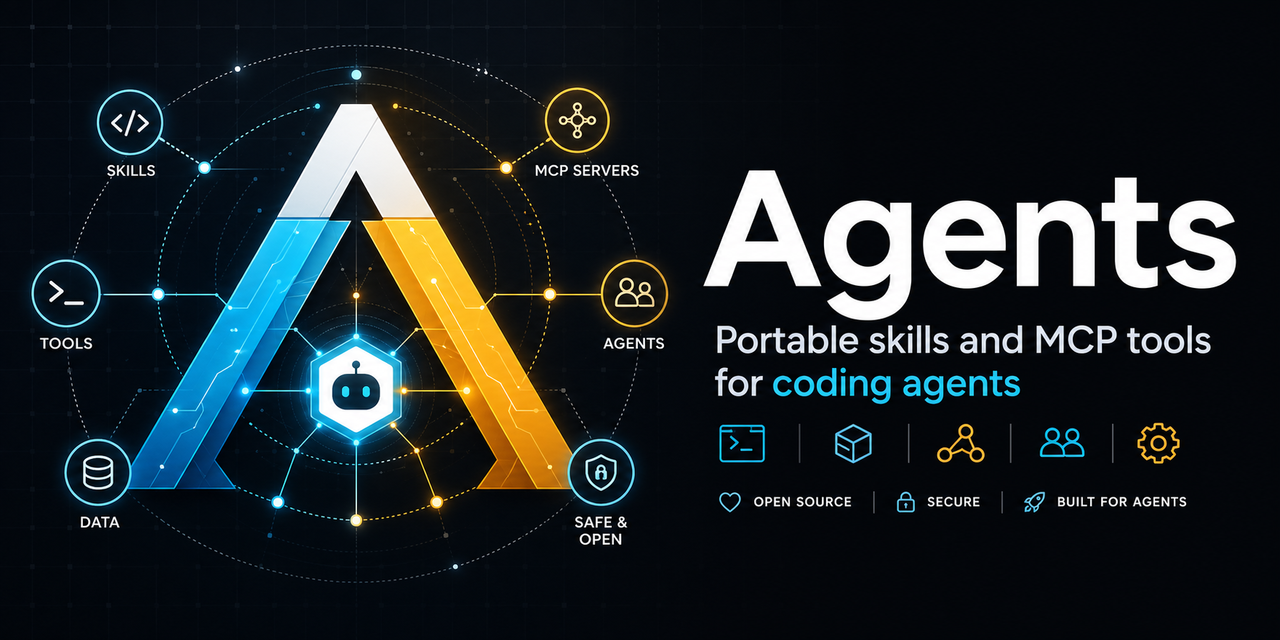
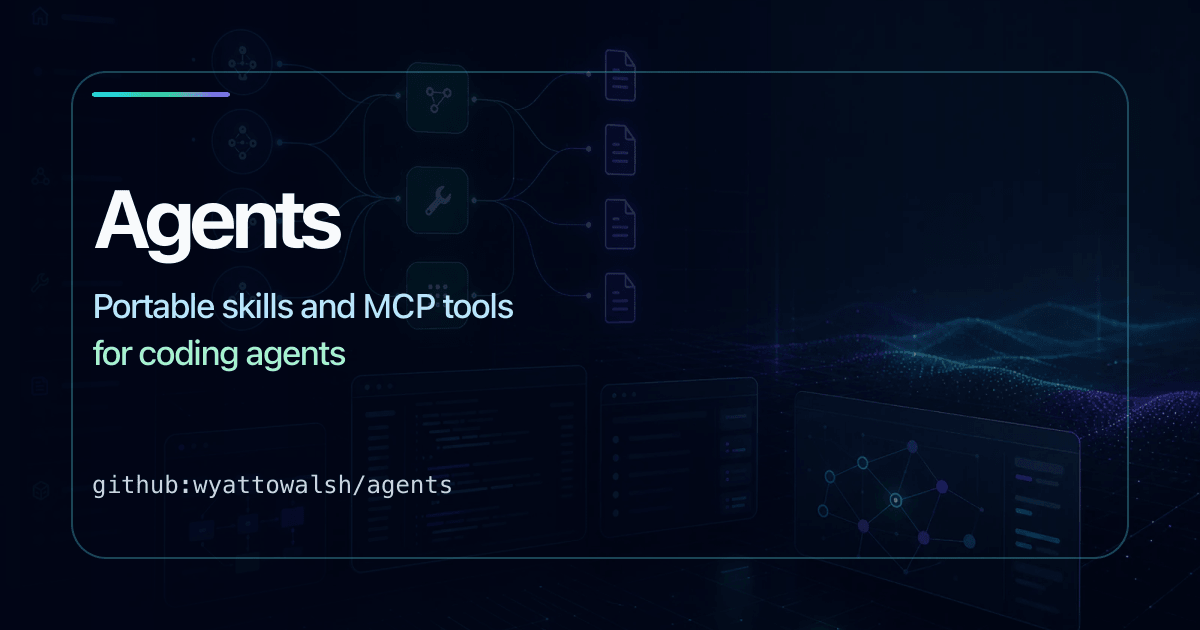
docs: add generated visual asset system

diff --git a/docs/src/styles/30-cards.css b/docs/src/styles/30-cards.css
@@ -122,6 +122,61 @@
   box-shadow: 0 8px 24px oklch(0.2 0.05 210 / 0.2);
 }
 
+/* ===== VISUAL ASSET PANELS ===== */
+.visual-showcase {
+  display: grid;
+  grid-template-columns: repeat(2, minmax(0, 1fr));
+  gap: 1rem;
+  margin: 1.5rem 0 2.5rem;
+}
+
+.visual-panel {
+  margin: 0;
+  overflow: hidden;
+  border: 1px solid var(--border-panel);
+  border-radius: var(--radius-md);
+  background: var(--surface-panel);
+  box-shadow: var(--shadow-md);
+}
+
+.visual-panel img {
+  display: block;
+  width: 100%;
+  aspect-ratio: 16 / 9;
+  object-fit: cover;
+}
+
+.visual-panel figcaption {
+  display: grid;
+  gap: 0.35rem;
+  padding: 0.85rem 1rem 1rem;
+}
+
+.visual-panel strong {
+  color: var(--sl-color-white);
+  font-size: 0.95rem;
+}
+
+.visual-panel span {
+  color: var(--sl-color-gray-3);
+  font-size: 0.86rem;
+  line-height: 1.45;
+}
+
+[data-theme='light'] .visual-panel {
+  background: var(--surface-panel);
+}
+
+[data-theme='light'] .visual-panel strong {
+  color: var(--sl-color-gray-1);
+}
+
+@media (max-width: 50rem) {
+  .visual-showcase {
+    grid-template-columns: 1fr;
+  }
+}
+
 /* ===== INSTALL SECTION ===== */
 .install-section {
   border: 1px solid oklch(0.32 0.03 210 / 0.28);

diff --git a/docs/src/pages/og/[...route].ts b/docs/src/pages/og/[...route].ts
@@ -1,7 +1,10 @@
 import { getCollection } from 'astro:content';
 import { OGImageRoute } from 'astro-og-canvas';
+import { visualAssets } from '../../generated-site-data.mjs';
 
 const docs = await getCollection('docs');
+const visualAssetById = Object.fromEntries(visualAssets.map((asset) => [asset.id, asset]));
+const localAssetPath = (src: string) => (src.startsWith('/src/') ? `.${src}` : `./public${src}`);
 
 const pages = Object.fromEntries(
   docs.map(({ id, data }) => [id, { title: data.title, description: data.description || '' }])
@@ -18,6 +21,15 @@ export const { GET } = await OGImageRoute({
       [11, 33, 43],
       [36, 24, 12],
     ],
+    bgImage: {
+      path: localAssetPath(visualAssetById['control-plane-hero'].src),
+      fit: 'cover',
+      position: 'center',
+    },
+    logo: {
+      path: localAssetPath(visualAssetById.logo.src),
+      size: [88, 88],
+    },
     border: {
       color: [71, 201, 204],
       width: 4,

diff --git a/docs/src/styles/20-hero.css b/docs/src/styles/20-hero.css
@@ -32,6 +32,17 @@
   overflow: hidden;
 }
 
+.hero::before {
+  content: '';
+  position: absolute;
+  inset: 0;
+  background:
+    linear-gradient(180deg, oklch(0.06 0.01 220 / 0.78), oklch(0.06 0.01 220 / 0.92)),
+    url('../assets/brand/control-plane-hero.webp') center / cover no-repeat;
+  opacity: 0.72;
+  transform: scale(1.02);
+}
+
 /* Terminal mockup styling */
 .hero-terminal {
   background: var(--hero-panel-gradient);

diff --git a/wagents/site_model.py b/wagents/site_model.py
@@ -144,6 +144,77 @@ class FeaturedSkill:
     description: str
 
 
+@dataclass(frozen=True)
+class VisualAsset:
+    id: str
+    title: str
+    src: str
+    alt: str
+    description: str
+
+
+VISUAL_ASSETS: tuple[VisualAsset, ...] = (
+    VisualAsset(
+        "logo",
+        "Agents Logo",
+        "/src/assets/brand/logo.webp",
+        "Abstract connected-node logo for the Agents repository",
+        "Square brand mark used by Starlight and README surfaces.",
+    ),
+    VisualAsset(
+        "social-card",
+        "Social Preview",
+        "/social-card.png",
+        "Agents documentation social preview card",
+        "Default Open Graph and README social preview.",
+    ),
+    VisualAsset(
+        "control-plane-hero",
+        "Control Plane",
+        "/src/assets/brand/control-plane-hero.webp",
+        "Abstract control-plane workspace with connected agent nodes and tool panels",
+        "Homepage atmosphere and Open Graph background plate.",
+    ),
+    VisualAsset(
+        "catalog-mesh",
+        "Catalog Mesh",
+        "/src/assets/illustrations/catalog-mesh.webp",
+        "Portable skills represented as connected modular interface cards",
+        "Explains the skill catalog as reusable, connected workflow components.",
+    ),
+    VisualAsset(
+        "mcp-routing",
+        "MCP Routing",
+        "/src/assets/illustrations/mcp-routing.webp",
+        "MCP tools and document pipelines represented as a luminous routing graph",
+        "Explains tool, server, and document flow across configured MCP surfaces.",
+    ),
+    VisualAsset(
+        "harness-matrix",
+        "Harness Matrix",
+        "/src/assets/illustrations/harness-matrix.webp",
+        "Multiple coding-agent harness interfaces connected to one shared skill source",
+        "Shows supported agents consuming one portable skill bundle.",
+    ),
+    VisualAsset(
+        "workflow-map",
+        "Workflow Map",
+        "/src/assets/illustrations/workflow-map.webp",
+        "Repository bundle flowing through install, invocation, and validation panels",
+        "Shows the operational path from bundle source to validated agent workflow.",
+    ),
+)
+
+VISUAL_ASSET_BY_ID = {asset.id: asset for asset in VISUAL_ASSETS}
+
+
+def docs_asset_repo_path(src: str) -> str:
+    """Map a docs asset URL to its repository path."""
+    if src.startswith("/src/"):
+        return f"docs{src}"
+    return f"docs/public{src}"
+
+
 FEATURED_SKILLS: tuple[FeaturedSkill, ...] = (
     FeaturedSkill(
         "Enhance Code Reviews",
@@ -222,6 +293,7 @@ def site_data(
         "distributionPaths": [path.__dict__ for path in DISTRIBUTION_PATHS],
         "featureCards": [card.__dict__ for card in FEATURE_CARDS],
         "featuredSkills": [skill.__dict__ for skill in FEATURED_SKILLS],
+        "visualAssets": [asset.__dict__ for asset in VISUAL_ASSETS],
     }
 
 
@@ -238,4 +310,5 @@ def render_site_data_module(data: dict[str, Any]) -> str:
         "export const distributionPaths = siteData.distributionPaths;\n"
         "export const featureCards = siteData.featureCards;\n"
         "export const featuredSkills = siteData.featuredSkills;\n"
+        "export const visualAssets = siteData.visualAssets;\n"
     )

diff --git a/wagents/docs.py b/wagents/docs.py
@@ -17,6 +17,7 @@ from wagents.rendering import (
     safe_outer_fence,
 )
 from wagents.site_model import (
+    VISUAL_ASSET_BY_ID,
     agent_flags,
     build_install_command,
     render_site_data_module,
@@ -59,6 +60,13 @@ def write_site_data(nodes: list) -> None:
         has_mcp_overview=_has_mcp_overview_page(),
     )
     (DOCS_DIR / "src" / "generated-site-data.mjs").write_text(render_site_data_module(data), encoding="utf-8")
+
+
+def _mdx_asset_import_path(src: str) -> str:
+    """Return a generated MDX import path for an asset under docs/src/assets."""
+    if not src.startswith("/src/assets/"):
+        raise ValueError(f"Expected docs src asset path, got {src!r}")
+    return "../../assets/" + src.removeprefix("/src/assets/")
 
 
 def write_index_page(nodes: list) -> None:
@@ -110,6 +118,14 @@ def write_index_page(nodes: list) -> None:
     parts.append("---")
     parts.append("")
     parts.append("import { Badge, Card, CardGrid, LinkCard, Aside } from '@astrojs/starlight/components';")
+    visual_imports = {
+        "catalogMeshArt": VISUAL_ASSET_BY_ID["catalog-mesh"],
+        "mcpRoutingArt": VISUAL_ASSET_BY_ID["mcp-routing"],
+        "harnessMatrixArt": VISUAL_ASSET_BY_ID["harness-matrix"],
+        "workflowMapArt": VISUAL_ASSET_BY_ID["workflow-map"],
+    }
+    for import_name, asset in visual_imports.items():
+        parts.append(f"import {import_name} from '{_mdx_asset_import_path(asset.src)}';")
     parts.append("")
 
     # Stats bar — only show non-zero counts
@@ -209,6 +225,20 @@ def write_index_page(nodes: list) -> None:
         "a few strong starter skills, and a quick mental model of the repo."
     )
     parts.append("</Aside>")
+    parts.append("")
+
+    parts.append("## Visual Map")
+    parts.append("")
+    parts.append('<div class="visual-showcase">')
+    for import_name, asset in visual_imports.items():
+        parts.append('  <figure class="visual-panel">')
+        parts.append(f'    <img src={{{import_name}.src}} alt="{escape_attr(asset.alt)}" />')
+        parts.append("    <figcaption>")
+        parts.append(f"      <strong>{escape_attr(asset.title)}</strong>")
+        parts.append(f"      <span>{escape_attr(asset.description)}</span>")
+        parts.append("    </figcaption>")
+        parts.append("  </figure>")
+    parts.append("</div>")
     parts.append("")
 
     parts.append("## What Skills Are")
@@ -394,11 +424,22 @@ def write_cli_page() -> None:
         "import { Tabs, TabItem, Steps, FileTree, CardGrid, LinkCard, Aside, Badge }"
         " from '@astrojs/starlight/components';"
     )
+    parts.append(f"import harnessMatrixArt from '{_mdx_asset_import_path(VISUAL_ASSET_BY_ID['harness-matrix'].src)}';")
     parts.append("")
     parts.append(
         "`wagents` is the repo control plane for skills, agents, MCP servers, and generated docs. "
         "Use it to scaffold new assets, validate the repo, publish docs, and package skills for release."
     )
+    parts.append("")
+    parts.append('<figure class="visual-panel">')
+    parts.append(
+        f'  <img src={{harnessMatrixArt.src}} alt="{escape_attr(VISUAL_ASSET_BY_ID["harness-matrix"].alt)}" />'
+    )
+    parts.append("  <figcaption>")
+    parts.append(f"    <strong>{escape_attr(VISUAL_ASSET_BY_ID['harness-matrix'].title)}</strong>")
+    parts.append(f"    <span>{escape_attr(VISUAL_ASSET_BY_ID['harness-matrix'].description)}</span>")
+    parts.append("  </figcaption>")
+    parts.append("</figure>")
     parts.append("")
     parts.append("## Boot Sequence")
     parts.append("")

diff --git a/wagents/cli.py b/wagents/cli.py
@@ -18,7 +18,13 @@ from wagents.docs import docs_app, regenerate_sidebar_and_indexes
 from wagents.parsing import parse_frontmatter, to_title
 from wagents.rendering import scaffold_doc_page
 from wagents.skill_index import collect_skill_records, doctor_report, read_skill, search_skills
-from wagents.site_model import REPO_SOURCE, SUPPORTED_AGENT_IDS, build_install_command
+from wagents.site_model import (
+    REPO_SOURCE,
+    SUPPORTED_AGENT_IDS,
+    VISUAL_ASSET_BY_ID,
+    build_install_command,
+    docs_asset_repo_path,
+)
 
 # Typer apps
 app = typer.Typer(help="CLI for managing centralized AI agent assets")
@@ -1446,11 +1452,14 @@ def readme(
                 except Exception:
                     mcps.append((mcp_subdir.name, ""))
 
+    logo_repo_path = docs_asset_repo_path(VISUAL_ASSET_BY_ID["logo"].src)
+    social_card_repo_path = docs_asset_repo_path(VISUAL_ASSET_BY_ID["social-card"].src)
+
     content_parts = [
         '<div align="center">',
         (
             '  <img src="https://raw.githubusercontent.com/wyattowalsh/agents/main/'
-            'docs/src/assets/logo.webp" alt="Agents Logo" width="100" height="100">'
+            f'{logo_repo_path}" alt="Agents Logo" width="100" height="100">'
         ),
         "  <h1>agents</h1>",
         "  <p><b>Portable AI agent skills, MCP config, and shared instructions</b></p>",
@@ -1483,7 +1492,7 @@ def readme(
         "  </p>",
         (
             '  <img src="https://raw.githubusercontent.com/wyattowalsh/agents/main/'
-            'docs/public/social-card.png" alt="Agents social preview" width="640">'
+            f'{social_card_repo_path}" alt="Agents social preview" width="640">'
         ),
         "</div>",
         "",

diff --git a/tests/test_site_model.py b/tests/test_site_model.py
@@ -3,7 +3,9 @@
 from wagents.catalog import CatalogNode
 from wagents.site_model import (
     SUPPORTED_AGENT_IDS,
+    VISUAL_ASSET_BY_ID,
     build_install_command,
+    docs_asset_repo_path,
     render_site_data_module,
     site_data,
 )
@@ -41,3 +43,13 @@ def test_render_site_data_module_exports_runtime_constants():
     assert "export const siteData =" in rendered
     assert "export const supportedAgents = siteData.supportedAgents;" in rendered
     assert "export const installCommands = siteData.installCommands;" in rendered
+    assert "export const visualAssets = siteData.visualAssets;" in rendered
+
+
+def test_visual_assets_are_manifest_backed():
+    data = site_data([])
+    asset_ids = {asset["id"] for asset in data["visualAssets"]}
+
+    assert {"logo", "social-card", "control-plane-hero", "catalog-mesh", "mcp-routing"} <= asset_ids
+    assert docs_asset_repo_path(VISUAL_ASSET_BY_ID["logo"].src) == "docs/src/assets/brand/logo.webp"
+    assert docs_asset_repo_path(VISUAL_ASSET_BY_ID["social-card"].src) == "docs/public/social-card.png"

diff --git a/tests/test_docs.py b/tests/test_docs.py
@@ -57,6 +57,8 @@ class TestWriteIndexPage:
         assert "template: splash" in text
         assert "CI status" in text
         assert "## Start Here" in text
+        assert "## Visual Map" in text
+        assert "catalogMeshArt.src" in text
         assert "## Popular Starting Points" in text
         assert 'title="Start Here"' in text
         assert "npx skills add github:wyattowalsh/agents --all -y -g" in text

diff --git a/README.md b/README.md
@@ -1,5 +1,5 @@
 <div align="center">
-  <img src="https://raw.githubusercontent.com/wyattowalsh/agents/main/docs/src/assets/logo.webp" alt="Agents Logo" width="100" height="100">
+  <img src="https://raw.githubusercontent.com/wyattowalsh/agents/main/docs/src/assets/brand/logo.webp" alt="Agents Logo" width="100" height="100">
   <h1>agents</h1>
   <p><b>Portable AI agent skills, MCP config, and shared instructions</b></p>
   <p>